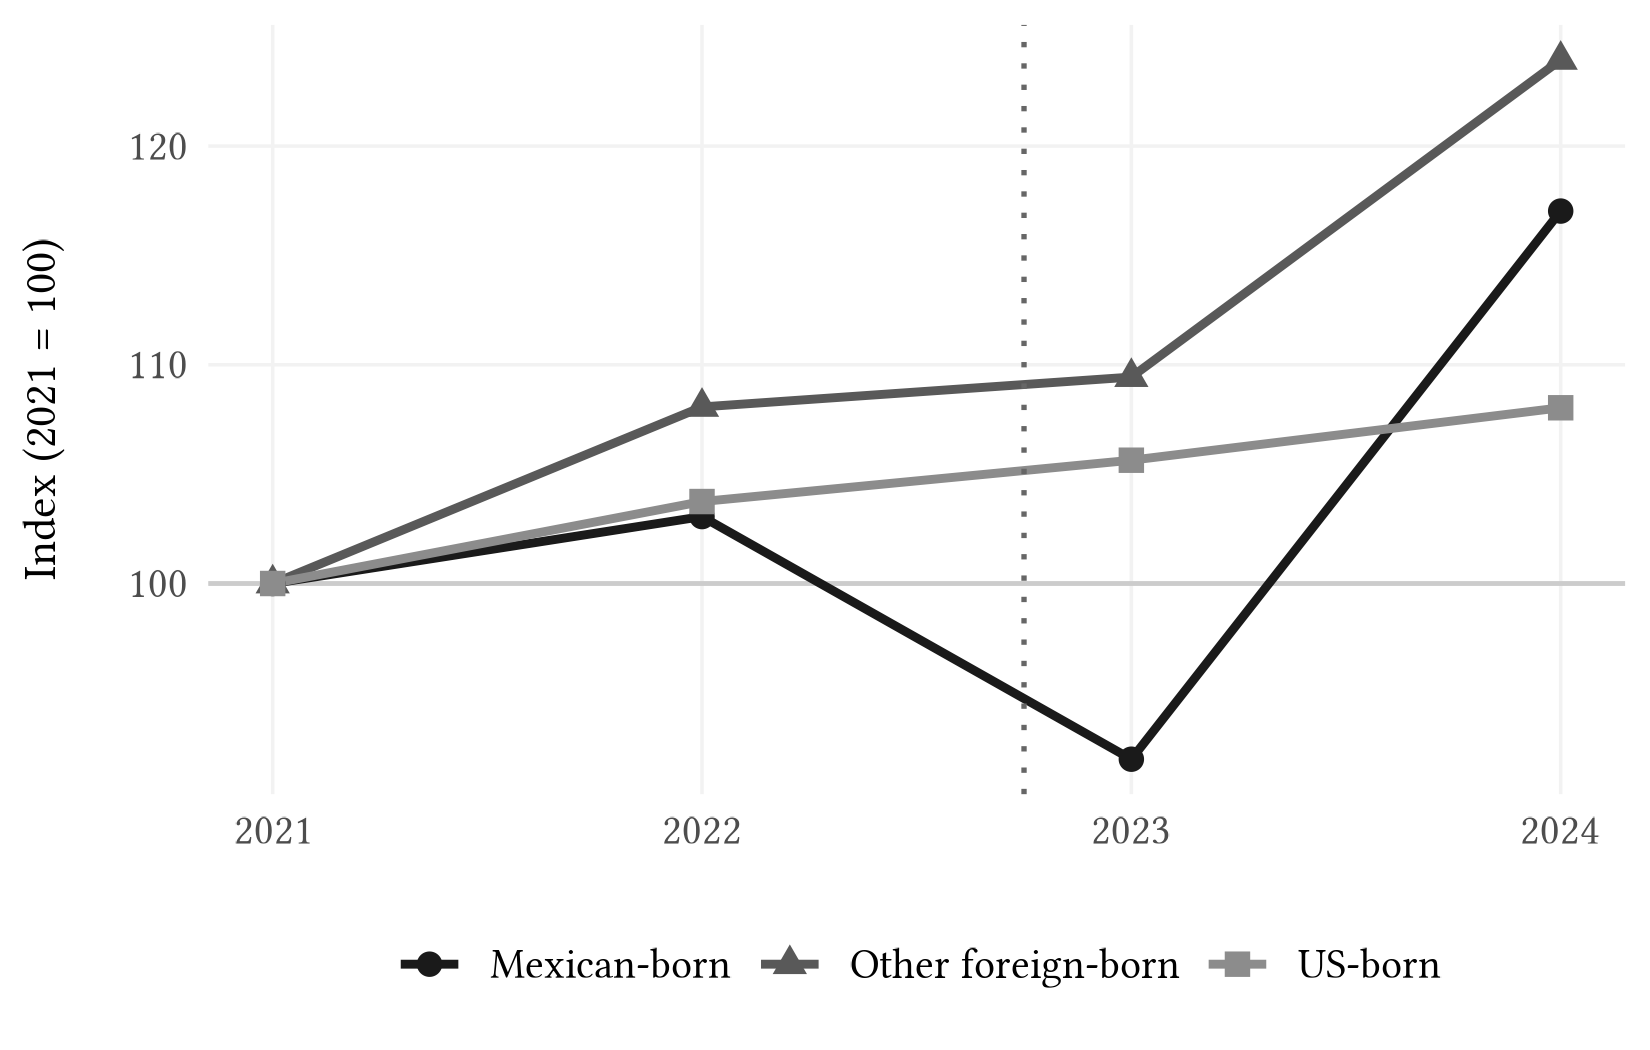
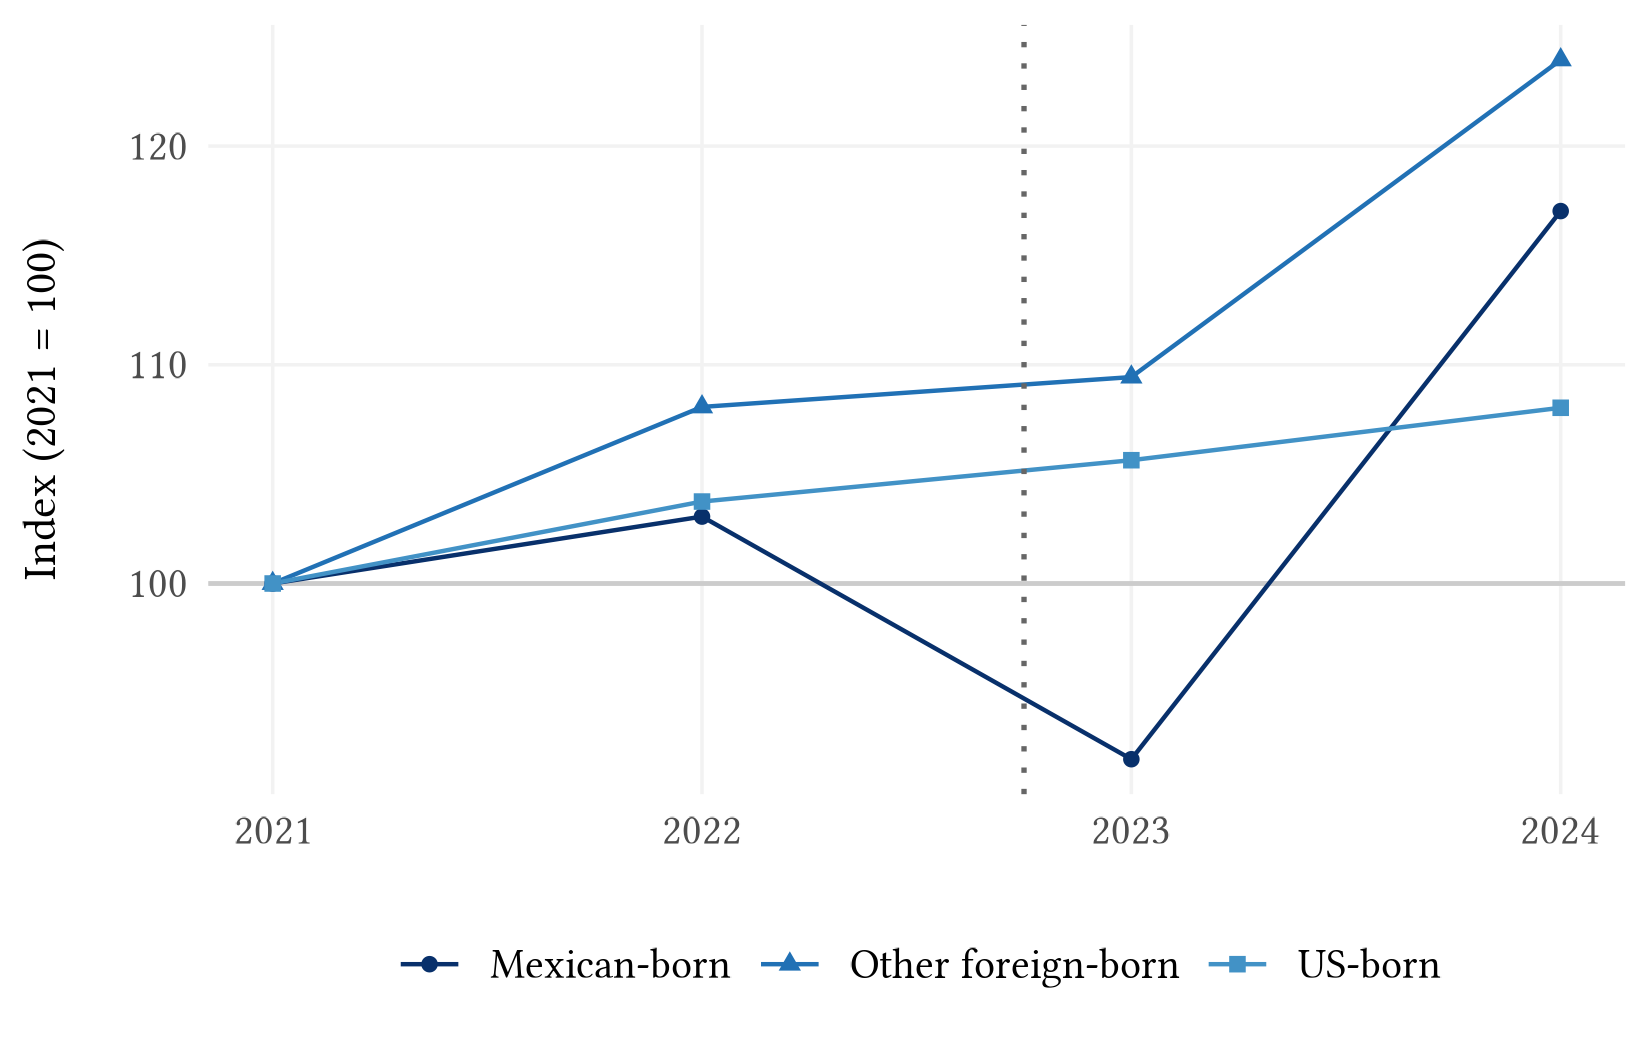
removed 4.6 and moved to footnote; moved robustness check in ch4 to before results; changed 4.5 to flow better into spillovers. updated plots with new theme and color palette

diff --git a/writeup/chapters_v2/4_shock_results.tex b/writeup/chapters_v2/4_shock_results.tex
@@ -13,6 +13,25 @@ We use the following Poisson Pseudo Maximum Likelihood (PPML) event-study specif
 \end{equation}
 This methodology is motivated by \cite{silva_tenreyro_2006}, who show that the PPML estimator remains consistent in the presence of heteroskedasticity and excess zeros, which are common features of remittance data at the municipality level. The event-study specification allows us to estimate the dynamic treatment effects of the shock over time. We include municipality fixed effects ($\alpha_m$) to control for all time-invariant, unobserved municipal characteristics that might otherwise introduce omitted variable bias. Additionally, we incorporate state-by-time fixed effects ($\gamma_{s(m),t}$), where $s(m)$ denotes the specific Mexican state to which municipality $m$ belongs. These fixed effects account for both macroeconomic shocks common to all regions and time-varying unobservables at the state level. The interaction term $w_{m,\text{FL}} \cdot \mathbbm{1}\{t - T_0 = k \}$ captures the differential effect of the shock on Mexican municipalities based on their varying degrees of baseline exposure to Florida, where $w_{m,\text{FL}}$ is a measure of pre-shock exposure to Florida and $\mathbbm{1}\{t - T_0 = k \}$ is an indicator for each time period relative to the shock. The coefficients $\beta_k$ thus represent the change in remittance inflows for a one-percent increase in Florida exposure at each time period $k$ relative to the shock. Errors are clustered at the municipality level to account for potential correlation within municipalities over time.
 
+\section{Robustness Checks}
+
+The consistency of the PPML estimator relies only on the assumption that the conditional mean is correctly specified \parencite{silva_tenreyro_2006}. Unlike the log-linear model, it requires no assumption on the conditional variance, so heteroskedasticity and overdispersion do not threaten consistency; they affect only efficiency and inference, which we handle through standard errors clustered by municipality. This narrows the robustness exercise to two questions: whether the exponential conditional mean is well specified, and what the mean-variance structure of the data looks like.
+
+We address the first with a Ramsey RESET test as proposed by \textcite{ramsey1969} and applied to this setting by \textcite{silva_tenreyro_2006}, which augments each specification with the square and cube of its fitted index and tests their joint nullity. A rejection signals that the assumed conditional mean is misspecified. We find that a log-linear OLS specification strongly rejects correct specification at all conventional levels ($W = 835.10, p < 0.001$), whereas the PPML specification does not reject the null ($W = 1.18, p = 0.308$). The RESET evidence therefore favors the exponential conditional mean over an additive-in-logs alternative.
+
+The second question is answered by \autoref{fig:mean-variance}, which plots, for each municipality, the variance of its pre-shock quarterly remittance inflows against their mean, both in logs. On these axes the Poisson benchmark is the line of slope one, along which the variance rises one-to-one with the mean. The cloud lies well above this line and follows a slope of approximately $1.546$, so the variance scales faster than the mean, signaling overdispersion. This leaves PPML unaffected, since its consistency does not depend on the variance function. A log-linear model fares worse: the expected value of log inflows is not a linear function of the regressors, so estimating the model in logs by OLS does not recover the parameters of the conditional mean \parencite{silva_tenreyro_2006}. The two diagnostics thereby support PPML as the baseline estimator.
+
+\begin{figure}[H]
+    \centering
+    \includegraphics[width=0.8\textwidth]{../figures-tables/ppml/muni-inflows-mean-var.png}
+    \caption{Mean-variance relationship of municipality remittance inflows. Each
+    point represents a Mexican municipality; axes show the variance against the mean of
+    its quarterly inflows over the pre-shock window. The solid
+    line is the fitted relationship; the dashed line marks the Poisson
+    equidispersion benchmark, where variance equals the mean.}
+    \label{fig:mean-variance}
+\end{figure}
+
 \section{Results}
 
 Figure \ref{fig:ppml-event-study-fig} shows the result of the PPML event-study estimation, where the vertical dashed line represents the timing of the shock (Q4 2022). The pre-shock coefficients ($\beta_k$ for $k < 0$) are close to zero and statistically insignificant, visually consistent with the parallel trends assumption underlying our DiD design. The point estimate in the quarter of the shock (Q4 2022) is negative and statistically significant at the 1\% level, indicating that municipalities with higher exposure to Florida experienced a larger drop in remittance inflows immediately following the shock. Specifically, a one percentage point increase in Florida exposure is associated with a 0.16\% decrease in remittance inflows in the quarter of the shock. In the subsequent quarters, the coefficients become slightly positive but statistically insignificant at the 5\% level, suggesting that the initial negative impact of the shock on remittance inflows dissipated over time. These results suggest that the Hurricane Ian shock had a significant, but short lived impact on remittance flows, suggesting a rapid re-adjustment of remittance networks after the shock (connection to the model?). However, the fact that the point estimates in the post-shock period are positive, altough not statistically significant, may be indicate a potential overshooting of remittance inflows due to post-shock reconstruction period, or some form of spillover effects through migrant networks in other states, which we will investigate in the next chapter.
@@ -34,35 +53,8 @@ As a robustness check, we also estimate the same event-study specification using
 \section{Is the Response Specific to Florida?}
 \label{sec:identification}
 
-A natural concern is that $w_{m,\text{FL}}$ could proxy for general migration intensity rather than Florida exposure specifically. If so, the impact-quarter contraction could reflect a broad migration-municipality trend coinciding with 2022Q4 rather than the hurricane. We address this by augmenting the specification with the analogous exposure to the two other largest destination states, California and Texas, each interacted with the full set of event-time indicators. Under the confounding story, a common migration trend would move all three exposure paths together at the shock; under our interpretation, only exposure to the state Ian actually struck should react.
-
 Conditioning on California and Texas exposure leaves the Florida impact coefficient essentially unchanged at $-0.0013$ ($p = 0.034$), while the California and Texas impact coefficients are themselves flat and insignificant ($+0.0004$ and $-0.0001$, respectively). The contraction at landfall is thus specific to Florida exposure and is not correlated with migration to other major destinations.
 
-\section{Robustness Checks}
+This rules out a common migration trend as the driver, but it tests only whether exposure to other destinations moves independently at the shock. It leaves open a separate question: whether the Florida response itself depends on a municipality's ties to those destinations. If migrants in Texas or California adjust their own transfers when the municipalities they send to are hit by the Florida shock, the Florida coefficient would already net out that within-network adjustment rather than measure the direct contraction alone. We take up this possibility in the next chapter, where the additive exposures of this section enter interactively to ask how the Florida effect varies across the migrant network.
 
-The consistency of the PPML estimator relies only on the assumption that the conditional mean is correctly specified \parencite{silva_tenreyro_2006}. Unlike the log-linear model, it requires no assumption on the conditional variance, so heteroskedasticity and overdispersion do not threaten consistency; they affect only efficiency and inference, which we handle through standard errors clustered by municipality. This narrows the robustness exercise to two questions: whether the exponential conditional mean is well specified, and what the mean-variance structure of the data looks like.
-
-We address the first with a Ramsey RESET test as proposed by \textcite{ramsey1969} and applied to this setting by \textcite{silva_tenreyro_2006}, which augments each specification with the square and cube of its fitted index and tests their joint nullity. A rejection signals that the assumed conditional mean is misspecified. We find that a log-linear OLS specification strongly rejects correct specification at all conventional levels ($W = 835.10, p < 0.001$), whereas the PPML specification does not reject the null ($W = 1.18, p = 0.308$). The RESET evidence therefore favors the exponential conditional mean over an additive-in-logs alternative.
-
-The second question is answered by \autoref{fig:mean-variance}, which plots, for each municipality, the variance of its pre-shock quarterly remittance inflows against their mean, both in logs. On these axes the Poisson benchmark is the line of slope one, along which the variance rises one-to-one with the mean. The cloud lies well above this line and follows a slope of approximately $1.546$, so the variance scales faster than the mean, signaling overdispersion. This leaves PPML unaffected, since its consistency does not depend on the variance function. A log-linear model fares worse: the expected value of log inflows is not a linear function of the regressors, so estimating the model in logs by OLS does not recover the parameters of the conditional mean \parencite{silva_tenreyro_2006}. The two diagnostics thereby support PPML as the baseline estimator.
-
-\begin{figure}[H]
-    \centering
-    \includegraphics[width=0.6\textwidth]{../figures-tables/ppml/muni-inflows-mean-var.pdf}
-    \caption{Mean-variance relationship of municipality remittance inflows. Each
-    point represents a Mexican municipality; axes show the variance against the mean of
-    its quarterly inflows over the pre-shock window. The solid
-    line is the fitted relationship; the dashed line marks the Poisson
-    equidispersion benchmark, where variance equals the mean.}
-    \label{fig:mean-variance}
-\end{figure}
-
-\section{Sensitivity Analysis}
-
-The pre-shock coefficients in \autoref{fig:ppml-event-study-fig} are small and statistically insignificant, which is consistent with parallel trends. However, tests for pre-trends are known to have low power, so a failure to detect a pre-trend is necessary but not sufficient to conclude that none is present; conditioning estimation and inference on having passed such a test can itself distort the results \parencite{roth2022}. We therefore choose to not rest identification on the flat pre-period alone. Rather, we ask how large a violation of parallel trends the impact-quarter estimate could withstand.
-
-In doing so, we follow the relative-magnitudes approach of \textcite{rambachan_roth_2023}. Rather than imposing exactly parallel trends, it bounds the post-shock violation by $\bar{M}$ times the largest deviation observed in the pre-shock window, and traces the robust confidence set as $\bar{M}$ grows. The breakdown value is the largest $\bar{M}$ for which that set still excludes zero, measuring how large a post-shock violation the significant effect can absorb before becoming indistinguishable from zero. A value $\bar{M} = 1$ represents a post-shock violation as large as the worst pre-shock deviation, which serves as a conventional lower bound for robust results.
-
-For the baseline Florida-only specification, the impact-quarter effect breaks down at $\bar{M} = 0.15$. The effect is thus distinguishable from zero only if any post-shock differential trend is at most about fifteen percent as large as the largest pre-shock deviation, far short of the conventional value of one. The netted specification of Section \ref{sec:identification}, which isolates Florida from correlated migration, is necessarily less precise (its significance falls to $p = 0.034$), and a less precisely estimated effect reaches zero under a smaller assumed violation, breaking down at $\bar{M} = 0.04$. Across spatial-clustering choices the breakdown remains in a comparable range, with Conley cutoffs of 10, 25 and 50\,km reported in the online appendix.
-
-We therefore read the evidence cautiously. The sign and timing of the response, a sharp Florida-specific contraction at landfall that is absent for the placebo exposures to Texas and California, are credible and consistent with remittances transmitting the income shock through the region where migrants earn. The magnitude is fragile, since small departures from parallel trends suffice to overturn its significance.
+\footnote{We assess robustness to violations of parallel trends using the relative-magnitudes approach of \textcite{rambachan_roth_2023}, reporting the breakdown value $\bar{M}$ (the largest pre-to-post violation ratio for which the effect stays significant; $\bar{M}=1$ is a conventional lower bound). The baseline Florida-only effect breaks down at $\bar{M}=0.15$ and the netted specification of Section~\ref{sec:identification} at $\bar{M}=0.04$. The sign and timing of the response are thus credible, but its magnitude is fragile, as expected given the dispersed, complex network of remittance flows, which motivates the spillover analysis that follows.}
